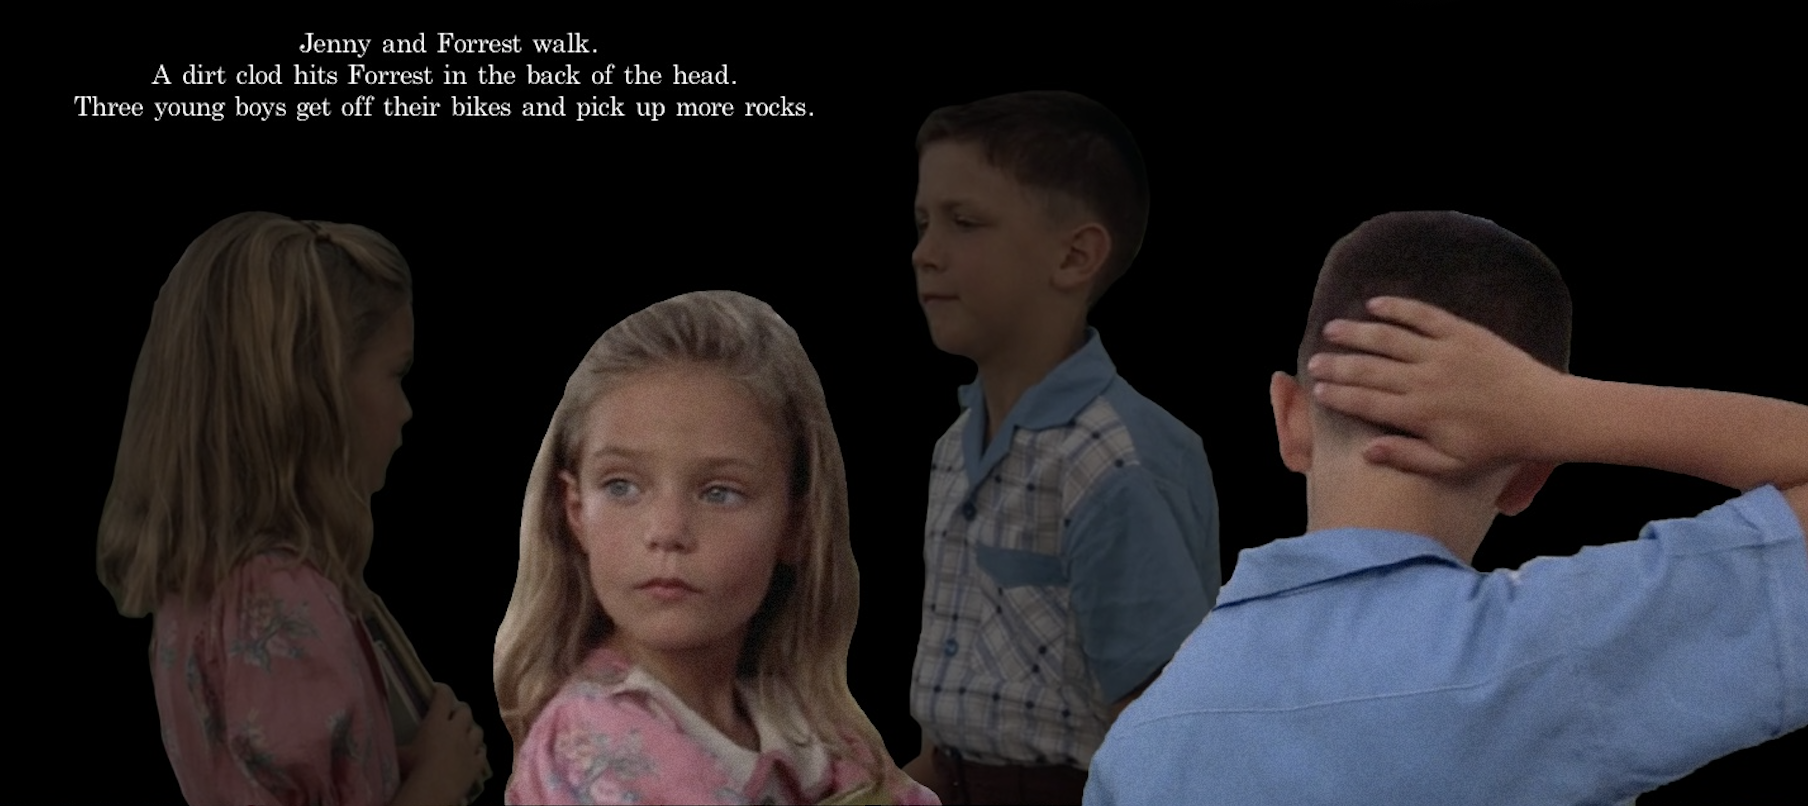
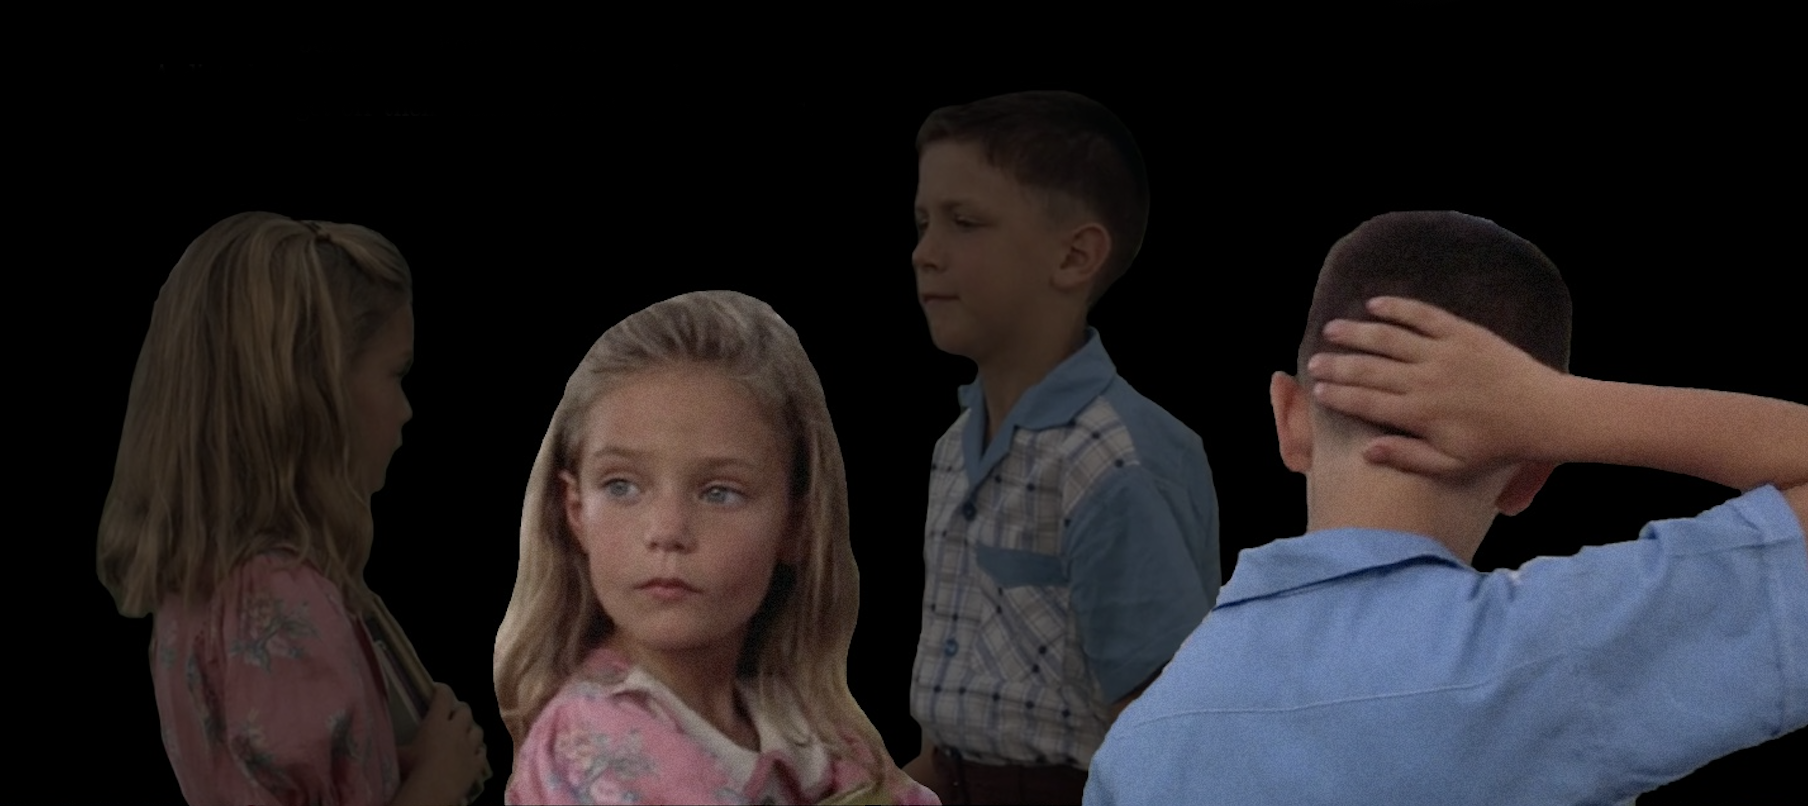
b

Changed region(s): [[0.031, 0.031, 0.4646, 0.1551]]

diff --git a/styles/expressions.css b/styles/expressions.css
@@ -25,12 +25,188 @@ body {
   top: -40px;
 }
 
-.intro2{
+.container{
+	position: relative;
+	color: white;
+	text-align: center;
+}
 
+.intro{
+	position: absolute;
+	top:170px;
+	left:1097px;
+	font-size: 25px;
+	text-decoration: underline;
+}
+
+.intro1{
+	position: absolute;
+	top:203px;
+	left:1017px;
+	font-size: 20px;
+}
+
+.intro1{
+	animation: animated-text 4s steps(29,end) 0.7s 1 normal both,
+             animated-cursor 600ms steps(29,end) infinite;
+             animation-delay: 0s;
+}
+
+@keyframes animated-text{
+  from{width: 0;}
+  to{width: 280px;}
+}
+
+@keyframes animated-cursor{
+  from{border-right-color: white;}
+  to{border-right-color: white;}
+}
+
+.intro2{
+	position: absolute;
+	top:223px;
+	left:1020px;
+	font-size: 20px;
+}
+
+.intro2{
+	animation: animated-text 4s steps(29,end) 0.7s 1 normal both,
+             animated-cursor 600ms steps(29,end) infinite;
+             animation-delay: 3s;
+             overflow: hidden;
+}
+
+@keyframes animated-text{
+  from{width: 0;}
+  to{width: 290px;}
+}
+
+@keyframes animated-cursor{
+  from{border-right-color: white;}
+  to{border-right-color: white;}
+}
+
+.intro3 {
+	position: absolute;
+	top:244px;
+	left:1020px;
+	font-size: 20px;
 }
 
 .intro3{
+	animation: animated-text 4s steps(29,end) 0.7s 1 normal both,
+             animated-cursor 600ms steps(29,end) infinite;
+             animation-delay: 6s;
+             overflow: hidden;
+}
 
+@keyframes animated-text{
+  from{width: 0;}
+  to{width: 290px;}
+}
+
+@keyframes animated-cursor{
+  from{border-right-color: white;}
+  to{border-right-color: white;}
+}
+}
+
+.containers{
+	position: relative;
+	color: white;
+	text-align: center;
+}
+
+.walk{
+	position: absolute;
+	top:740px;
+	left:220px;
+	font-size: 18px;
+	color: white;
+}
+
+.walk2{
+	position: absolute;
+	top:761px;
+	left:138px;
+	font-size: 18px;
+	color: white;
+}
+
+.walk3{
+	position: absolute;
+	top:783px;
+	left:85px;
+	font-size: 18px;
+	color: white;
+}
+
+.containerss{
+	position: relative;
+	color: white;
+	text-align: center;
+}
+
+.rock{
+	position: absolute;
+	top:400px;
+	left:132px;
+	font-size: 20px;
+	color: white;
+}
+
+.rock1{
+	position: absolute;
+	top:423px;
+	left:124px;
+	font-size: 20px;
+	color: white;
+}
+
+.rock2{
+	position: absolute;
+	top:446px;
+	left:110px;
+	font-size: 20px;
+	color: white;
+}
+
+.rock3{
+	position: absolute;
+	top:470px;
+	left:165px;
+	font-size: 20px;
+	color: white;
+}
+
+.containersss{
+	position: relative;
+	color: white;
+	text-align: center;
+}
+
+.rrock{
+	position: absolute;
+	top:-110px;
+	left:1135px;
+	font-size: 20px;
+	color: white;
+}
+
+.rrock1{
+	position: absolute;
+	top:-88px;
+	left:1145px;
+	font-size: 20px;
+	color: white;
+}
+
+.rrock2{
+	position: absolute;
+	top:-65px;
+	left:1146px;
+	font-size: 20px;
+	color: white;
 }
 
 .image1{

diff --git a/projects/expressions.html b/projects/expressions.html
@@ -37,32 +37,58 @@
         <hr>
     </div>
 
-  <div class="intro1">
-        <p> miracles happen every day. Some</p>
-  </div>
-
-  <div class="intro2">
-        <p> miracles happen every day. Some</p>
-  </div>
-
-  <div class="intro3">
-        <p> people don't think so, but they do.</p>
-  </div>
-
-  <div class= "image1">
+  <div class= "container">
+        
         <img src="INTRO.png" width="1470px" height="580px" alt="image1">
+
+        <div class="intro">FORREST</div>
+
+        <div class="intro1">My Momma always told me that</div>
+
+        <div class="intro2">miracles happen every day. Some</div>
+
+        <div class="intro3">people don't think so, but they do.</div>
   </div>
 
-  <div class= "image2">
+  <div class= "containers">
+        
         <img src="2.png" width="1470px" height="580px" alt="image2">
+
+        <div class="walk">Jenny and Forrest walk.</div>
+
+        <div class="walk2">A dirt clod hits Forrest in the back of the head.</div>
+
+        <div class="walk3">Three young boys get off their bikes and pick up more rocks.</div>
+
+  </div>
+
+  <div class= "containerss">
+        
+        <img src="4.png" width="1470px" height="580px" alt="image4">
+
+        <div class="rock">Forrest is hit in the eye with</div>
+
+        <div class="rock1">another dirt clod. Forrest falls</div>
+
+        <div class="rock2">backward onto the ground as the</div>
+
+        <div class="rock3">boys glare at him.</div>
+
+  </div>
+
+  <div class= "containersss">
+
+        <div class="rrock">Jenny helps Forrest back up.</div>
+
+        <div class="rrock1">Boy #1 and Boy #2 throw</div>
+
+        <div class="rrock2">more dirt clods at Forrest.</div>
+  </div>
+
   </div>
 
   <div class= "image3">
         <img src="3.png" width="1470px" height="540px" alt="image3">
-  </div>
-
-  <div class= "image4">
-        <img src="4.png" width="1470px" height="580px" alt="image4">
   </div>
 
   <div class= "image5">
@@ -130,7 +156,7 @@
   </div>
 
     <div class= "collage">
-        <img src="collage.png" width="1470px" height="1760px" alt="collage">
+        <img src="collage.png" width="1470px" height="1780px" alt="collage">
   </div>
 
 
